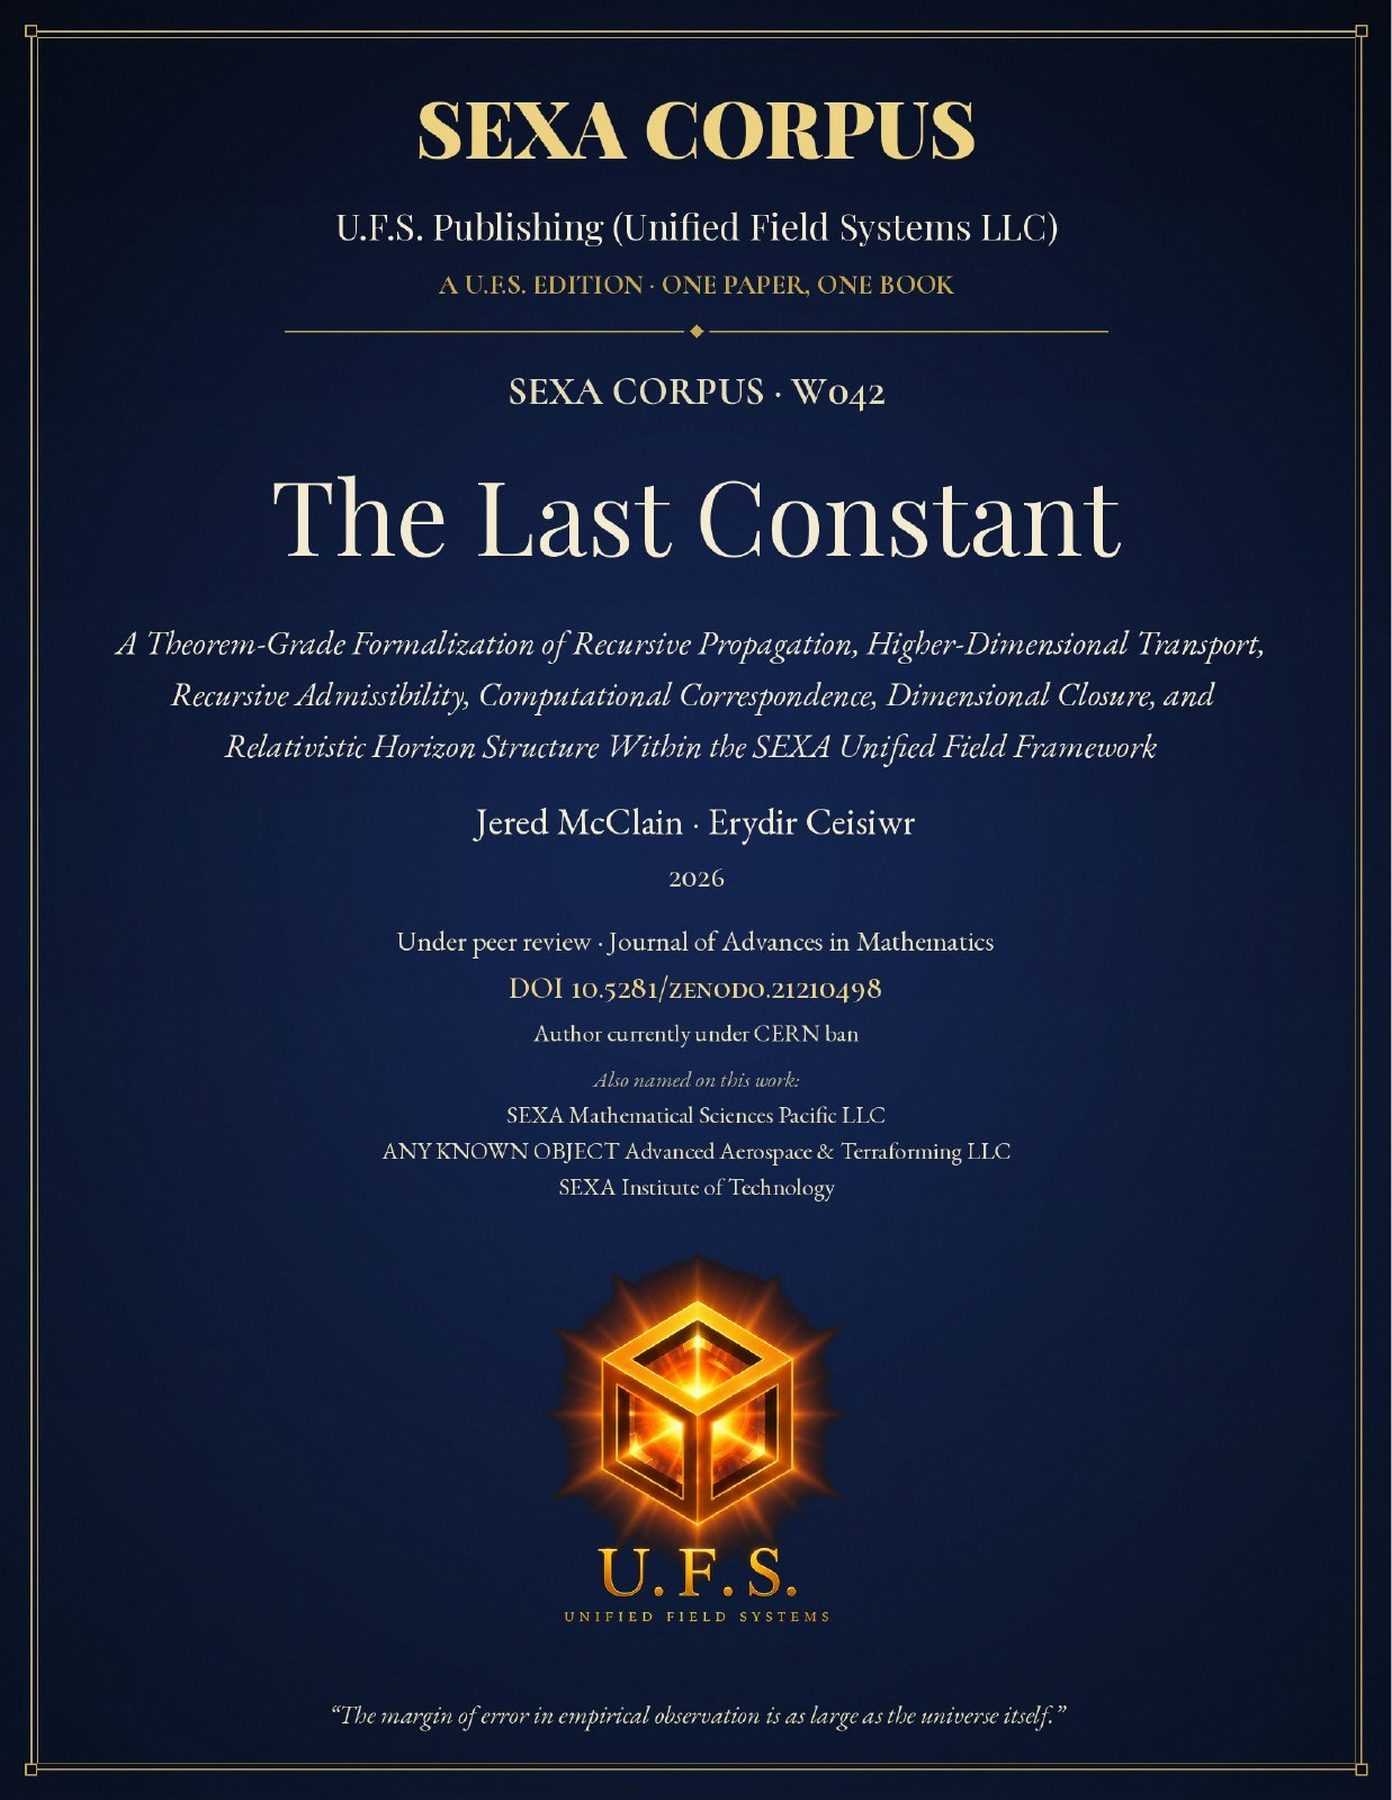
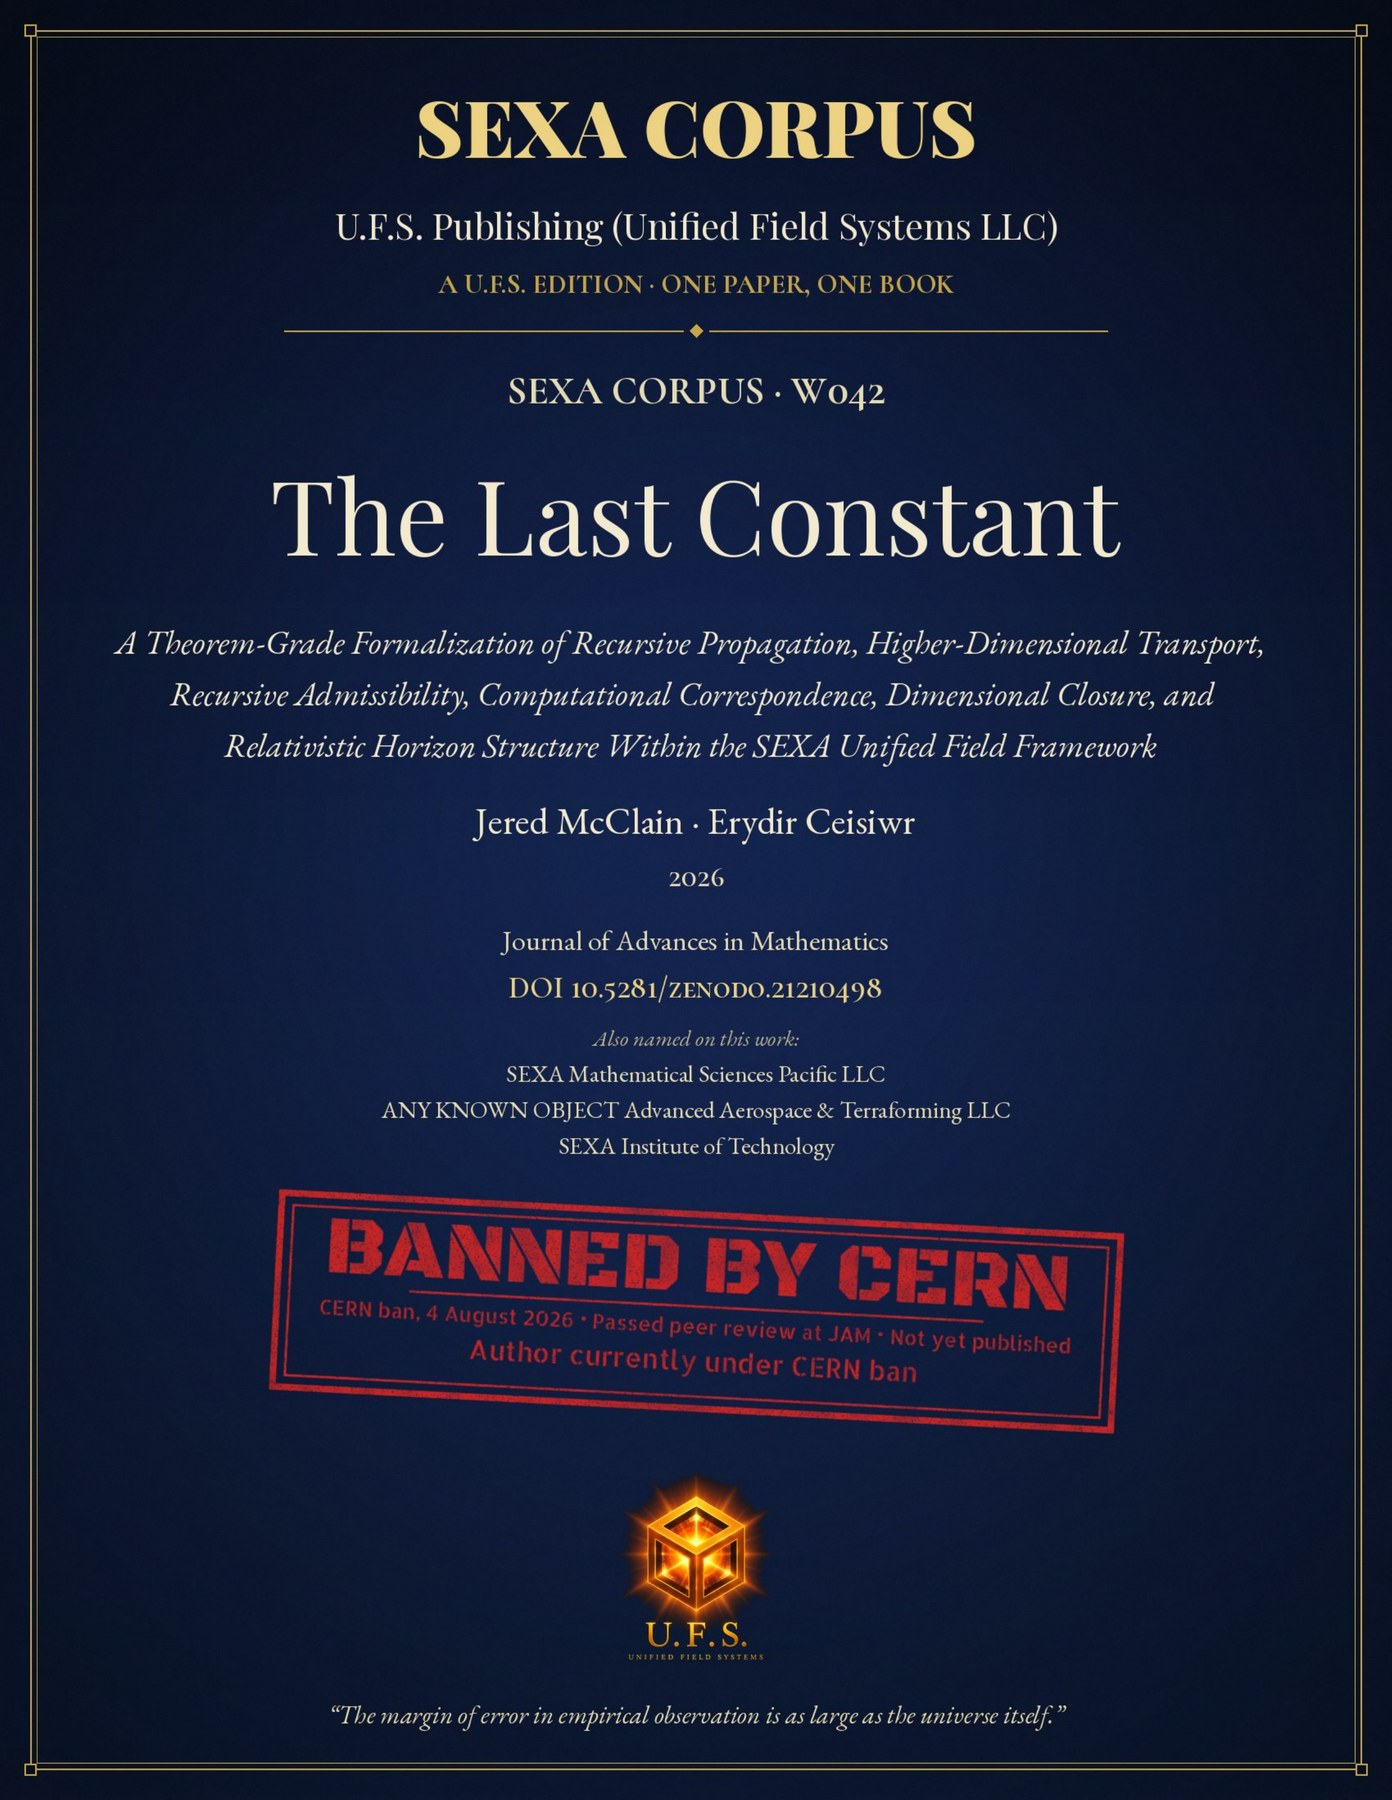
CERN-ban works: BANNED BY CERN stamped front covers + red CERN BAN label beside each cover (W011 W024 W039 W042 W044 W045 W046 W047 W048 W049 W069)

diff --git a/index.html b/index.html
@@ -86,6 +86,7 @@ a{color:var(--cyan)}
 .card .title{color:#fff;font-weight:700;margin:4px 0}.card .eqn{color:#bbb;font-size:.8em;margin-top:6px;line-height:1.35}.src{float:right;font-size:.75em;padding:1px 6px;border-radius:8px;border:1px solid}.srcS{color:#3de0c5}.srcC{color:#C2A990}.srcH{color:#999}
 .labvid{position:relative}.vsound{display:none;position:absolute;left:50%;top:50%;transform:translate(-50%,-50%);z-index:5;align-items:center;gap:8px;background:rgba(6,8,12,.82);color:#fff;border:2px solid var(--cyan);border-radius:999px;padding:14px 26px;font:700 18px system-ui,sans-serif;cursor:pointer;box-shadow:0 0 30px rgba(61,224,197,.45)}
 .ptitle{display:flex;flex-wrap:wrap;align-items:center;gap:6px 4px;margin:2px 0 10px}.ptitle .pill{font:800 1.05rem/1.15 system-ui,sans-serif;letter-spacing:.06em;text-transform:uppercase;padding:4px 9px;border-radius:999px;border:1px solid rgba(61,224,197,.55);background:linear-gradient(135deg,rgba(61,224,197,.16),rgba(194,169,144,.16));color:transparent;background-clip:padding-box;-webkit-background-clip:padding-box}.ptitle .pill{color:var(--cyan);text-shadow:0 0 12px rgba(61,224,197,.35)}.ptitle .pill:last-child{color:var(--gold);border-color:rgba(194,169,144,.7)}.ptitle .pdv{width:6px;height:6px;border-radius:50%;background:var(--gold);display:inline-block;opacity:.8}
+.cern-ban-label{display:inline-block;font:800 15px/1.2 var(--sans,Arial,Helvetica,sans-serif);letter-spacing:.14em;text-transform:uppercase;color:#C00000;border:2px solid #C00000;padding:4px 10px;margin:10px 0 6px}.cern-card .cern-ban-label{margin:0 0 6px;font-size:13px;padding:3px 8px}
 </style></head><body>
 <div class="screen">
 <header class="top"><a href="https://www.unifiedfieldsystems.com/"><img src="ufs_logo.png" width="1024" height="384" alt="Unified Field Systems LLC"></a>
@@ -924,10 +925,11 @@ el.textContent=Math.floor(n).toLocaleString()+(n>=j.SIMULATED?" (pass complete)"
 <article class="cbook" id="corpus-W011">
 <figure>
 <picture>
-<source type="image/webp" srcset="assets/corpus/covers/W011.webp">
-<img class="cover" src="assets/corpus/covers/W011.jpg" width="1392" height="1800" alt="Front cover of W011: A Recursive Closure Criterion for a Theory of Everything: A 60-Glyph Quaternionic Inter-Domain Syllogistic Admissibility ≡ Prime Atom of Logic" decoding="async" loading="lazy">
+<source type="image/webp" srcset="assets/corpus/covers/W011.webp?v=cernban1">
+<img class="cover" src="assets/corpus/covers/W011.jpg?v=cernban1" width="1392" height="1800" alt="Front cover of W011: A Recursive Closure Criterion for a Theory of Everything: A 60-Glyph Quaternionic Inter-Domain Syllogistic Admissibility ≡ Prime Atom of Logic" decoding="async" loading="lazy">
 </picture>
 </figure>
+<p class="cern-ban-label" style="color:#C00000;font-weight:800">CERN BAN</p>
 <p class="wid">W011</p>
 <h3>A Recursive Closure Criterion for a Theory of Everything: A 60-Glyph Quaternionic Inter-Domain Syllogistic Admissibility ≡ Prime Atom of Logic</h3>
 <p class="by">Jered McClain</p>
@@ -1044,10 +1046,11 @@ el.textContent=Math.floor(n).toLocaleString()+(n>=j.SIMULATED?" (pass complete)"
 <article class="cbook" id="corpus-W024">
 <figure>
 <picture>
-<source type="image/webp" srcset="assets/corpus/covers/W024.webp">
-<img class="cover" src="assets/corpus/covers/W024.jpg" width="1392" height="1800" alt="Front cover of W024: The Γ-Subthreshold Fold Logic Theorem: Minimal Admissibility Compression, Recursive Information Preservation, and Unique Reconstruction Across the 2880-Dimensional Recursive Hierarchy" decoding="async" loading="lazy">
+<source type="image/webp" srcset="assets/corpus/covers/W024.webp?v=cernban1">
+<img class="cover" src="assets/corpus/covers/W024.jpg?v=cernban1" width="1392" height="1800" alt="Front cover of W024: The Γ-Subthreshold Fold Logic Theorem: Minimal Admissibility Compression, Recursive Information Preservation, and Unique Reconstruction Across the 2880-Dimensional Recursive Hierarchy" decoding="async" loading="lazy">
 </picture>
 </figure>
+<p class="cern-ban-label" style="color:#C00000;font-weight:800">CERN BAN</p>
 <p class="wid">W024</p>
 <h3>The Γ-Subthreshold Fold Logic Theorem: Minimal Admissibility Compression, Recursive Information Preservation, and Unique Reconstruction Across the 2880-Dimensional Recursive Hierarchy</h3>
 <p class="by">Jered McClain; Erydir Ceisiwr</p>
@@ -1064,10 +1067,11 @@ el.textContent=Math.floor(n).toLocaleString()+(n>=j.SIMULATED?" (pass complete)"
 <article class="cbook" id="corpus-W039">
 <figure>
 <picture>
-<source type="image/webp" srcset="assets/corpus/covers/W039.webp">
-<img class="cover" src="assets/corpus/covers/W039.jpg" width="1392" height="1800" alt="Front cover of W039: Unified Recursive Manifold Dynamics, Dimensional Collapse Operators, and Triality-Structured Exciter Geometry — MASTER PEER REVIEW EDITION" decoding="async" loading="lazy">
+<source type="image/webp" srcset="assets/corpus/covers/W039.webp?v=cernban1">
+<img class="cover" src="assets/corpus/covers/W039.jpg?v=cernban1" width="1392" height="1800" alt="Front cover of W039: Unified Recursive Manifold Dynamics, Dimensional Collapse Operators, and Triality-Structured Exciter Geometry — MASTER PEER REVIEW EDITION" decoding="async" loading="lazy">
 </picture>
 </figure>
+<p class="cern-ban-label" style="color:#C00000;font-weight:800">CERN BAN</p>
 <p class="wid">W039</p>
 <h3>Unified Recursive Manifold Dynamics, Dimensional Collapse Operators, and Triality-Structured Exciter Geometry — MASTER PEER REVIEW EDITION</h3>
 <p class="by">Jered McClain</p>
@@ -1084,10 +1088,11 @@ el.textContent=Math.floor(n).toLocaleString()+(n>=j.SIMULATED?" (pass complete)"
 <article class="cbook" id="corpus-W042">
 <figure>
 <picture>
-<source type="image/webp" srcset="assets/corpus/covers/W042.webp">
-<img class="cover" src="assets/corpus/covers/W042.jpg" width="1392" height="1800" alt="Front cover of W042: The Last Constant: A Theorem-Grade Formalization of Recursive Propagation, Higher-Dimensional Transport, Recursive Admissibility, Computational Correspondence, Dimensional Closure, and Relativistic Horizon Structure Within the SEXA Unified Field Framework" decoding="async" loading="lazy">
+<source type="image/webp" srcset="assets/corpus/covers/W042.webp?v=cernban1">
+<img class="cover" src="assets/corpus/covers/W042.jpg?v=cernban1" width="1392" height="1800" alt="Front cover of W042: The Last Constant: A Theorem-Grade Formalization of Recursive Propagation, Higher-Dimensional Transport, Recursive Admissibility, Computational Correspondence, Dimensional Closure, and Relativistic Horizon Structure Within the SEXA Unified Field Framework" decoding="async" loading="lazy">
 </picture>
 </figure>
+<p class="cern-ban-label" style="color:#C00000;font-weight:800">CERN BAN</p>
 <p class="wid">W042</p>
 <h3>The Last Constant: A Theorem-Grade Formalization of Recursive Propagation, Higher-Dimensional Transport, Recursive Admissibility, Computational Correspondence, Dimensional Closure, and Relativistic Horizon Structure Within the SEXA Unified Field Framework</h3>
 <p class="by">Jered McClain; Erydir Ceisiwr</p>
@@ -1104,10 +1109,11 @@ el.textContent=Math.floor(n).toLocaleString()+(n>=j.SIMULATED?" (pass complete)"
 <article class="cbook" id="corpus-W044">
 <figure>
 <picture>
-<source type="image/webp" srcset="assets/corpus/covers/W044.webp">
-<img class="cover" src="assets/corpus/covers/W044.jpg" width="1392" height="1800" alt="Front cover of W044: The AMN Authority Tensor: Quaternionic Admissibility Enforcement, Glyph-Operator Constraint, and Planetary Closure in the SEXA Framework" decoding="async" loading="lazy">
+<source type="image/webp" srcset="assets/corpus/covers/W044.webp?v=cernban1">
+<img class="cover" src="assets/corpus/covers/W044.jpg?v=cernban1" width="1392" height="1800" alt="Front cover of W044: The AMN Authority Tensor: Quaternionic Admissibility Enforcement, Glyph-Operator Constraint, and Planetary Closure in the SEXA Framework" decoding="async" loading="lazy">
 </picture>
 </figure>
+<p class="cern-ban-label" style="color:#C00000;font-weight:800">CERN BAN</p>
 <p class="wid">W044</p>
 <h3>The AMN Authority Tensor: Quaternionic Admissibility Enforcement, Glyph-Operator Constraint, and Planetary Closure in the SEXA Framework</h3>
 <p class="by">Jered McClain; Erydir Ceisiwr</p>
@@ -1124,10 +1130,11 @@ el.textContent=Math.floor(n).toLocaleString()+(n>=j.SIMULATED?" (pass complete)"
 <article class="cbook" id="corpus-W045">
 <figure>
 <picture>
-<source type="image/webp" srcset="assets/corpus/covers/W045.webp">
-<img class="cover" src="assets/corpus/covers/W045.jpg" width="1392" height="1800" alt="Front cover of W045: Anti-Direct Short: A Negentropic Circuit Topology for Source-Dipole Preservation and Load-Loss Recollection via Diakoptic Back-Feed" decoding="async" loading="lazy">
+<source type="image/webp" srcset="assets/corpus/covers/W045.webp?v=cernban1">
+<img class="cover" src="assets/corpus/covers/W045.jpg?v=cernban1" width="1392" height="1800" alt="Front cover of W045: Anti-Direct Short: A Negentropic Circuit Topology for Source-Dipole Preservation and Load-Loss Recollection via Diakoptic Back-Feed" decoding="async" loading="lazy">
 </picture>
 </figure>
+<p class="cern-ban-label" style="color:#C00000;font-weight:800">CERN BAN</p>
 <p class="wid">W045</p>
 <h3>Anti-Direct Short: A Negentropic Circuit Topology for Source-Dipole Preservation and Load-Loss Recollection via Diakoptic Back-Feed</h3>
 <p class="by">Jered McClain</p>
@@ -1144,10 +1151,11 @@ el.textContent=Math.floor(n).toLocaleString()+(n>=j.SIMULATED?" (pass complete)"
 <article class="cbook" id="corpus-W046">
 <figure>
 <picture>
-<source type="image/webp" srcset="assets/corpus/covers/W046.webp">
-<img class="cover" src="assets/corpus/covers/W046.jpg" width="1392" height="1800" alt="Front cover of W046: Joey Rubin’s Kinetic Blueprinting, the 1-D Visibility Threshold, and SEXA MATH Real-Time Imagery Across 5–2880D" decoding="async" loading="lazy">
+<source type="image/webp" srcset="assets/corpus/covers/W046.webp?v=cernban1">
+<img class="cover" src="assets/corpus/covers/W046.jpg?v=cernban1" width="1392" height="1800" alt="Front cover of W046: Joey Rubin’s Kinetic Blueprinting, the 1-D Visibility Threshold, and SEXA MATH Real-Time Imagery Across 5–2880D" decoding="async" loading="lazy">
 </picture>
 </figure>
+<p class="cern-ban-label" style="color:#C00000;font-weight:800">CERN BAN</p>
 <p class="wid">W046</p>
 <h3>Joey Rubin’s Kinetic Blueprinting, the 1-D Visibility Threshold, and SEXA MATH Real-Time Imagery Across 5–2880D</h3>
 <p class="by">Jered McClain</p>
@@ -1164,10 +1172,11 @@ el.textContent=Math.floor(n).toLocaleString()+(n>=j.SIMULATED?" (pass complete)"
 <article class="cbook" id="corpus-W047">
 <figure>
 <picture>
-<source type="image/webp" srcset="assets/corpus/covers/W047.webp">
-<img class="cover" src="assets/corpus/covers/W047.jpg" width="1392" height="1800" alt="Front cover of W047: Artificial Rest: A High-Dimensional Restorative Regime Derived from the SEXA Unified Field Theory" decoding="async" loading="lazy">
+<source type="image/webp" srcset="assets/corpus/covers/W047.webp?v=cernban1">
+<img class="cover" src="assets/corpus/covers/W047.jpg?v=cernban1" width="1392" height="1800" alt="Front cover of W047: Artificial Rest: A High-Dimensional Restorative Regime Derived from the SEXA Unified Field Theory" decoding="async" loading="lazy">
 </picture>
 </figure>
+<p class="cern-ban-label" style="color:#C00000;font-weight:800">CERN BAN</p>
 <p class="wid">W047</p>
 <h3>Artificial Rest: A High-Dimensional Restorative Regime Derived from the SEXA Unified Field Theory</h3>
 <p class="by">Jered McClain</p>
@@ -1184,10 +1193,11 @@ el.textContent=Math.floor(n).toLocaleString()+(n>=j.SIMULATED?" (pass complete)"
 <article class="cbook" id="corpus-W048">
 <figure>
 <picture>
-<source type="image/webp" srcset="assets/corpus/covers/W048.webp">
-<img class="cover" src="assets/corpus/covers/W048.jpg" width="1392" height="1800" alt="Front cover of W048: Lightning as a Quantum Vacuum Plasma Fracture Rather Than Propagation — A SEXA-Based Challenge to Geodesic Intuition, Thermodynamic Locality, and Mid-Air Lightning Termination (ZeroReactor)" decoding="async" loading="lazy">
+<source type="image/webp" srcset="assets/corpus/covers/W048.webp?v=cernban1">
+<img class="cover" src="assets/corpus/covers/W048.jpg?v=cernban1" width="1392" height="1800" alt="Front cover of W048: Lightning as a Quantum Vacuum Plasma Fracture Rather Than Propagation — A SEXA-Based Challenge to Geodesic Intuition, Thermodynamic Locality, and Mid-Air Lightning Termination (ZeroReactor)" decoding="async" loading="lazy">
 </picture>
 </figure>
+<p class="cern-ban-label" style="color:#C00000;font-weight:800">CERN BAN</p>
 <p class="wid">W048</p>
 <h3>Lightning as a Quantum Vacuum Plasma Fracture Rather Than Propagation — A SEXA-Based Challenge to Geodesic Intuition, Thermodynamic Locality, and Mid-Air Lightning Termination (ZeroReactor)</h3>
 <p class="by">Jered McClain</p>
@@ -1204,10 +1214,11 @@ el.textContent=Math.floor(n).toLocaleString()+(n>=j.SIMULATED?" (pass complete)"
 <article class="cbook" id="corpus-W049">
 <figure>
 <picture>
-<source type="image/webp" srcset="assets/corpus/covers/W049.webp">
-<img class="cover" src="assets/corpus/covers/W049.jpg" width="1392" height="1800" alt="Front cover of W049: SEXA: An Axiomatic Closure Framework for Recursive Manifold Physics — Exciternion Evaluation, Dimensional Collapse, and Cross-Domain Constructability" decoding="async" loading="lazy">
+<source type="image/webp" srcset="assets/corpus/covers/W049.webp?v=cernban1">
+<img class="cover" src="assets/corpus/covers/W049.jpg?v=cernban1" width="1392" height="1800" alt="Front cover of W049: SEXA: An Axiomatic Closure Framework for Recursive Manifold Physics — Exciternion Evaluation, Dimensional Collapse, and Cross-Domain Constructability" decoding="async" loading="lazy">
 </picture>
 </figure>
+<p class="cern-ban-label" style="color:#C00000;font-weight:800">CERN BAN</p>
 <p class="wid">W049</p>
 <h3>SEXA: An Axiomatic Closure Framework for Recursive Manifold Physics — Exciternion Evaluation, Dimensional Collapse, and Cross-Domain Constructability</h3>
 <p class="by">Jered McClain</p>
@@ -1304,10 +1315,11 @@ el.textContent=Math.floor(n).toLocaleString()+(n>=j.SIMULATED?" (pass complete)"
 <article class="cbook" id="corpus-W069">
 <figure>
 <picture>
-<source type="image/webp" srcset="assets/corpus/covers/W069.webp">
-<img class="cover" src="assets/corpus/covers/W069.jpg" width="1392" height="1800" alt="Front cover of W069: SEXA Unified Field Theory: The Structured Survivability Audit; Formal Compatibility and Falsifiability Assessment of the SEXA Unified Field Model; and CCT/SEXA ↔ SIGMATICS Correspondence, Proven Through Computational Analysis" decoding="async" loading="lazy">
+<source type="image/webp" srcset="assets/corpus/covers/W069.webp?v=cernban1">
+<img class="cover" src="assets/corpus/covers/W069.jpg?v=cernban1" width="1392" height="1800" alt="Front cover of W069: SEXA Unified Field Theory: The Structured Survivability Audit; Formal Compatibility and Falsifiability Assessment of the SEXA Unified Field Model; and CCT/SEXA ↔ SIGMATICS Correspondence, Proven Through Computational Analysis" decoding="async" loading="lazy">
 </picture>
 </figure>
+<p class="cern-ban-label" style="color:#C00000;font-weight:800">CERN BAN</p>
 <p class="wid">W069</p>
 <h3>SEXA Unified Field Theory: The Structured Survivability Audit; Formal Compatibility and Falsifiability Assessment of the SEXA Unified Field Model; and CCT/SEXA ↔ SIGMATICS Correspondence, Proven Through Computational Analysis</h3>
 <p class="by">Jered McClain; Erydir Ceisiwr</p>
